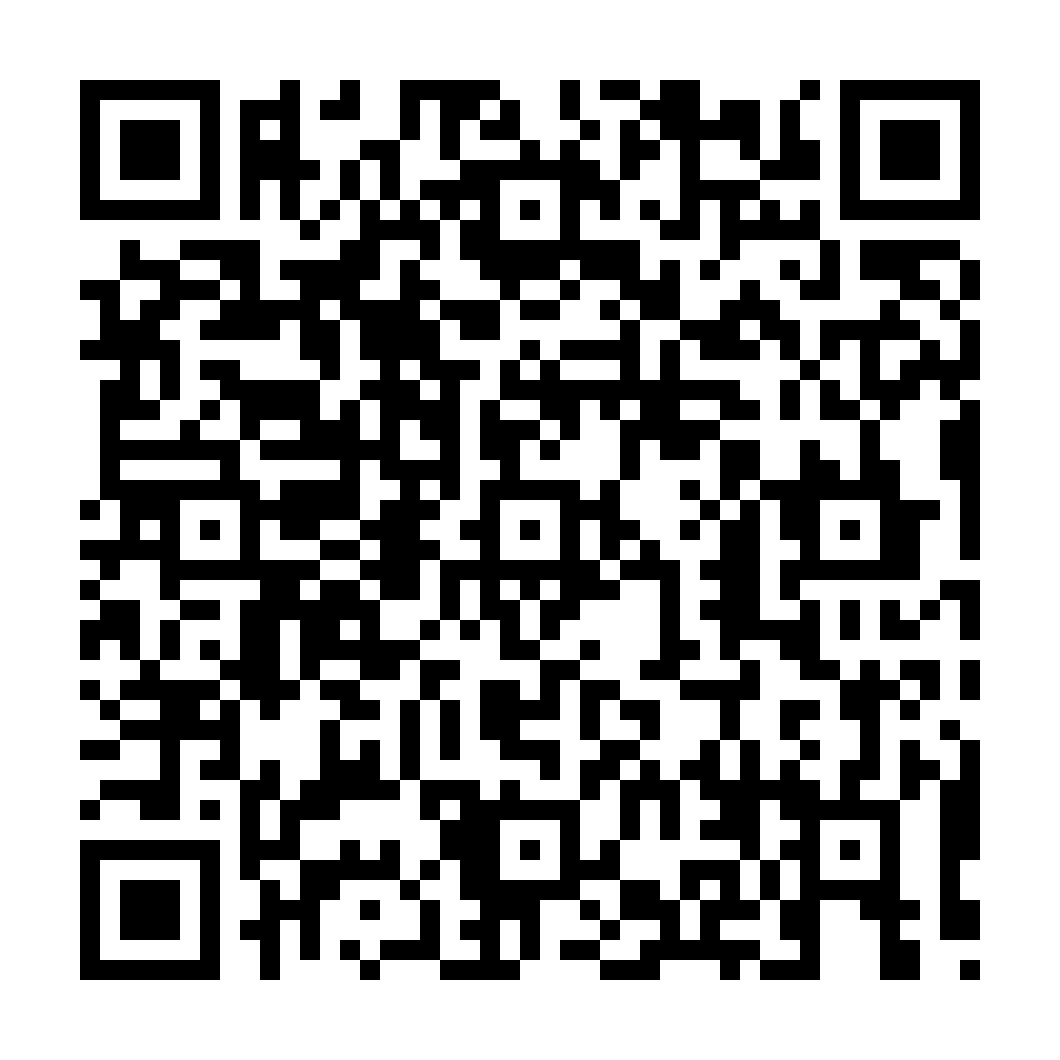
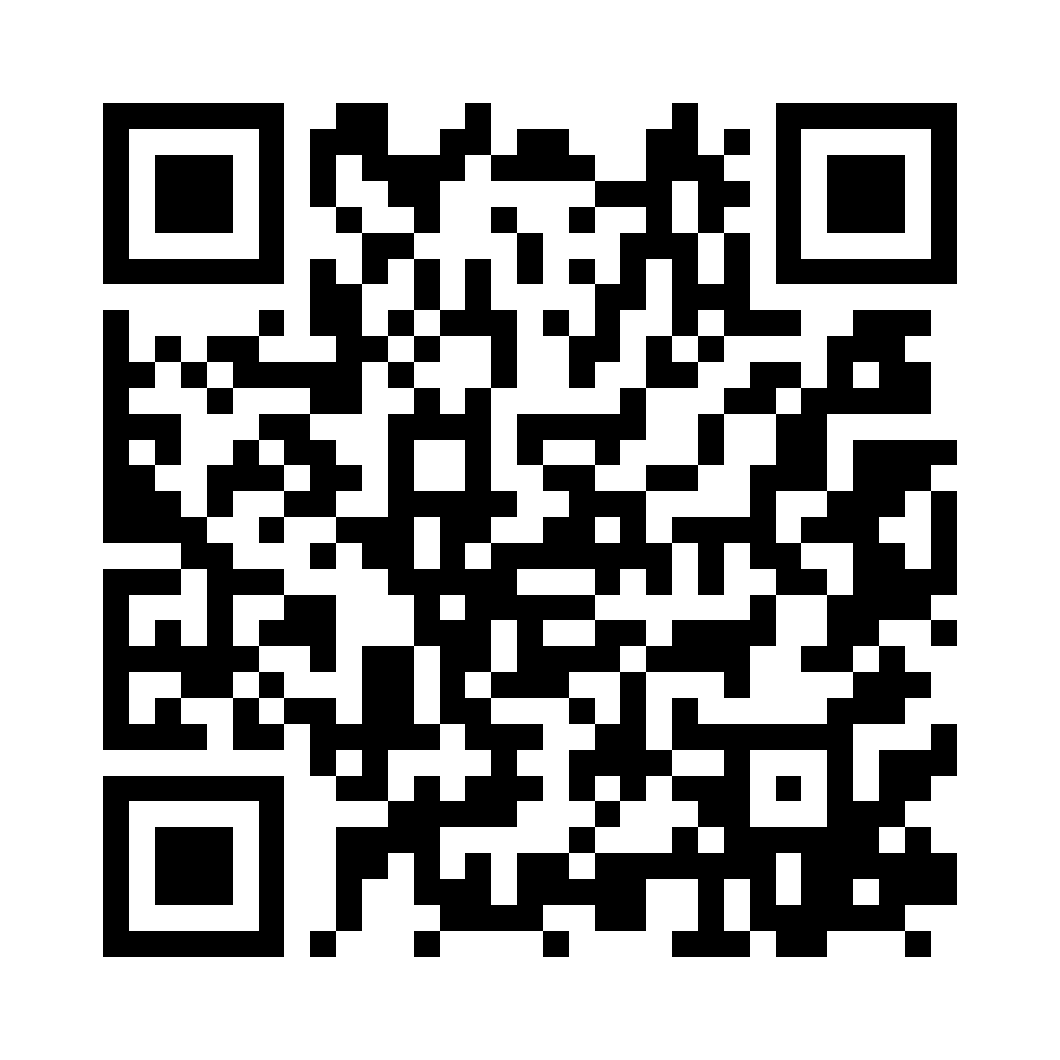
GitHub 계정 이름 변경(Pimanguk)에 맞춰 사이트 주소와 QR 이미지 갱신, QR 생성 스크립트 추가

diff --git a/presentation/archive/content.js b/presentation/archive/content.js
@@ -84,6 +84,6 @@ module.exports = [
   { type: "close", title: "한계를 알고, 다음 단계로",
     limits: ["정적 모델: 급선회·급정지 힘은 아직 제외", "미끄러짐·지반 침하는 범위 밖", "연습용 모델: 실제 안전 판정 단독 사용 금지"],
     next: ["울퉁불퉁한 지형 + 트랙 6점 접지", "버킷 적재 하중", "인양 능력표 검증 완료", "인터넷 없이도 실행"],
-    link: "kuk97339429-source.github.io/heavy-equipment-rollover",
+    link: "pimanguk.github.io/heavy-equipment-rollover",
     notes: "한계도 분명히 말씀드립니다. 지금은 정지 상태만 보고 미끄러짐과 지반 침하는 다루지 않습니다. 그래서 실제 현장 판단에 단독으로 쓰면 안 됩니다. 다음 단계는 울퉁불퉁한 지형, 버킷에 담은 흙 무게, 인양 능력표 검증 완료입니다. 화면의 주소에서 직접 해 보실 수 있습니다. 감사합니다." },
 ];

diff --git a/presentation/images/make_qr.py b/presentation/images/make_qr.py
@@ -1,0 +1,35 @@
+# 시뮬레이터·휴대폰 대본 QR 이미지 생성 (주소가 바뀌면 SITE만 고치고 다시 실행)
+import os, qrcode
+from PIL import Image, ImageDraw, ImageFont
+SITE = 'https://pimanguk.github.io/heavy-equipment-rollover/'
+HERE = os.path.dirname(os.path.abspath(__file__))
+P = lambda f: os.path.join(HERE, f)
+
+def qr(url, size):
+    q = qrcode.QRCode(border=4, error_correction=qrcode.constants.ERROR_CORRECT_M); q.add_data(url); q.make()
+    return q.make_image().convert('L').resize((size, size), Image.NEAREST)
+
+base = qr(SITE, 1060)
+base.convert('RGB').save(P('qr_simulator.png'))
+for name, rgb in (('qr_simulator_투명_검정.png', (0, 0, 0)), ('qr_simulator_투명_흰색.png', (255, 255, 255))):
+    a = base.point(lambda v: 255 if v < 128 else 0)          # 검은 칸만 남기고 배경은 투명
+    im = Image.new('RGBA', base.size, rgb + (0,)); im.putalpha(a); im.save(P(name))
+
+card = Image.new('RGB', (1140, 1280), (255, 194, 14)); d = ImageDraw.Draw(card)
+card.paste(base.convert('RGB'), (40, 40))
+B = ImageFont.truetype('C:/Windows/Fonts/malgunbd.ttf', 60); R = ImageFont.truetype('C:/Windows/Fonts/malgun.ttf', 30)
+for txt, f, cy in (('시뮬레이터 직접 해 보기', B, 1160), (SITE.replace('https://', '').rstrip('/'), R, 1232)):
+    l, t, r, b = d.textbbox((0, 0), txt, font=f); d.text(((1140 - (r - l)) // 2 - l, cy - (b + t) // 2), txt, font=f, fill=(25, 25, 25))
+card.save(P('qr_simulator_card.png'))
+
+qr(SITE + 'web/script.html', 492).save(P('qr_발표대본_폰.png'))
+
+if __name__ == '__main__':
+    import zxingcpp                                            # 생성한 QR이 실제로 새 주소로 읽히는지 확인
+    for f, want in (('qr_simulator.png', SITE), ('qr_simulator_card.png', SITE), ('qr_simulator_투명_검정.png', SITE),
+                    ('qr_simulator_투명_흰색.png', SITE), ('qr_발표대본_폰.png', SITE + 'web/script.html')):
+        im = Image.open(P(f))
+        if im.mode == 'RGBA':                                  # 투명 QR은 대비되는 배경에 얹어서 읽는다
+            bg = Image.new('RGBA', im.size, (255, 255, 255, 255) if '검정' in f else (0, 0, 0, 255)); bg.alpha_composite(im); im = bg
+        got = zxingcpp.read_barcodes(im)[0].text
+        assert got == want, (f, got); print('OK', f, got)

diff --git a/README.md b/README.md
@@ -4,7 +4,7 @@ AX 챌린지 · AI콘텐츠공학 × 메카트로닉스공학과
 
 굴착기(CAT 320)가 비탈길이나 경사진 지형에서 움직일 때 넘어질 위험이 얼마나 커지는지 3D 화면으로 미리 확인하는 교육용 웹 시뮬레이터입니다.
 
-**바로 해 보기:** https://kuk97339429-source.github.io/heavy-equipment-rollover/
+**바로 해 보기:** https://pimanguk.github.io/heavy-equipment-rollover/
 (QR: `presentation/images/qr_simulator.png` — 안전교육 시작 화면 `web/home.html`이 열리고, "학습 시작"으로 시뮬레이터, "진단 테스트"로 테스트에 들어갑니다)
 
 > 2일 동안 만든 학습·시연용 근사 모델입니다. 지반 붕괴·침하, 미끄러짐 등은 반영하지 않으므로 실제 현장 안전 판단에 단독으로 쓰면 안 됩니다.

diff --git a/presentation/archive/v2_문구.md b/presentation/archive/v2_문구.md
@@ -160,7 +160,7 @@
   - 3인칭: 자세·경사를 바꾸면 모델상 투영점과 지지영역 경계 간 거리가 바뀜
   - 1인칭: 운전석에서는 기울기가 잘 느껴지지 않음
   - 경사각 0~35°, 오르막 방향 0~180°
-  - 바로 해 보기: kuk97339429-source.github.io/heavy-equipment-rollover
+  - 바로 해 보기: pimanguk.github.io/heavy-equipment-rollover
 - **시각 자료**: 3인칭·1인칭 화면 2장 + QR 코드(링크)
 - **발표자 노트**: 팔 자세와 경사를 바꾸면 가정한 지지영역 경계까지의 모델상 거리가 바뀝니다. 이 거리는 실제 전복까지의 안전 여유가 아닙니다. 운전석 시점과 외부 시점으로 형상과 기울기를 살펴볼 수 있습니다.
 

diff --git a/docs/PPT_제작가이드.md b/docs/PPT_제작가이드.md
@@ -58,7 +58,7 @@
 
 | 항목 | 상태 |
 |---|---|
-| QR 주소 | `https://kuk97339429-source.github.io/heavy-equipment-rollover/` — 판독 확인 완료 |
+| QR 주소 | `https://pimanguk.github.io/heavy-equipment-rollover/` — 판독 확인 완료 |
 | QR이 여는 화면 | 안전교육 시작 화면(`web/home.html`) → "학습 시작"으로 시뮬레이터(찐 최종), "진단 테스트"로 5문항 테스트 |
 | 부품 질량 | 최종 시뮬레이터는 팀 시트 질량(버킷 1,200 / 암 1,800 / 붐 3,300 / 회전몸체 12,300 / 하부 4,000 kg) 사용. 사진·영상 수치도 이 기준 |
 | 위험 단계 기준 0.35 m | 임시값 — 발표 때 그렇게 말할 것 |
